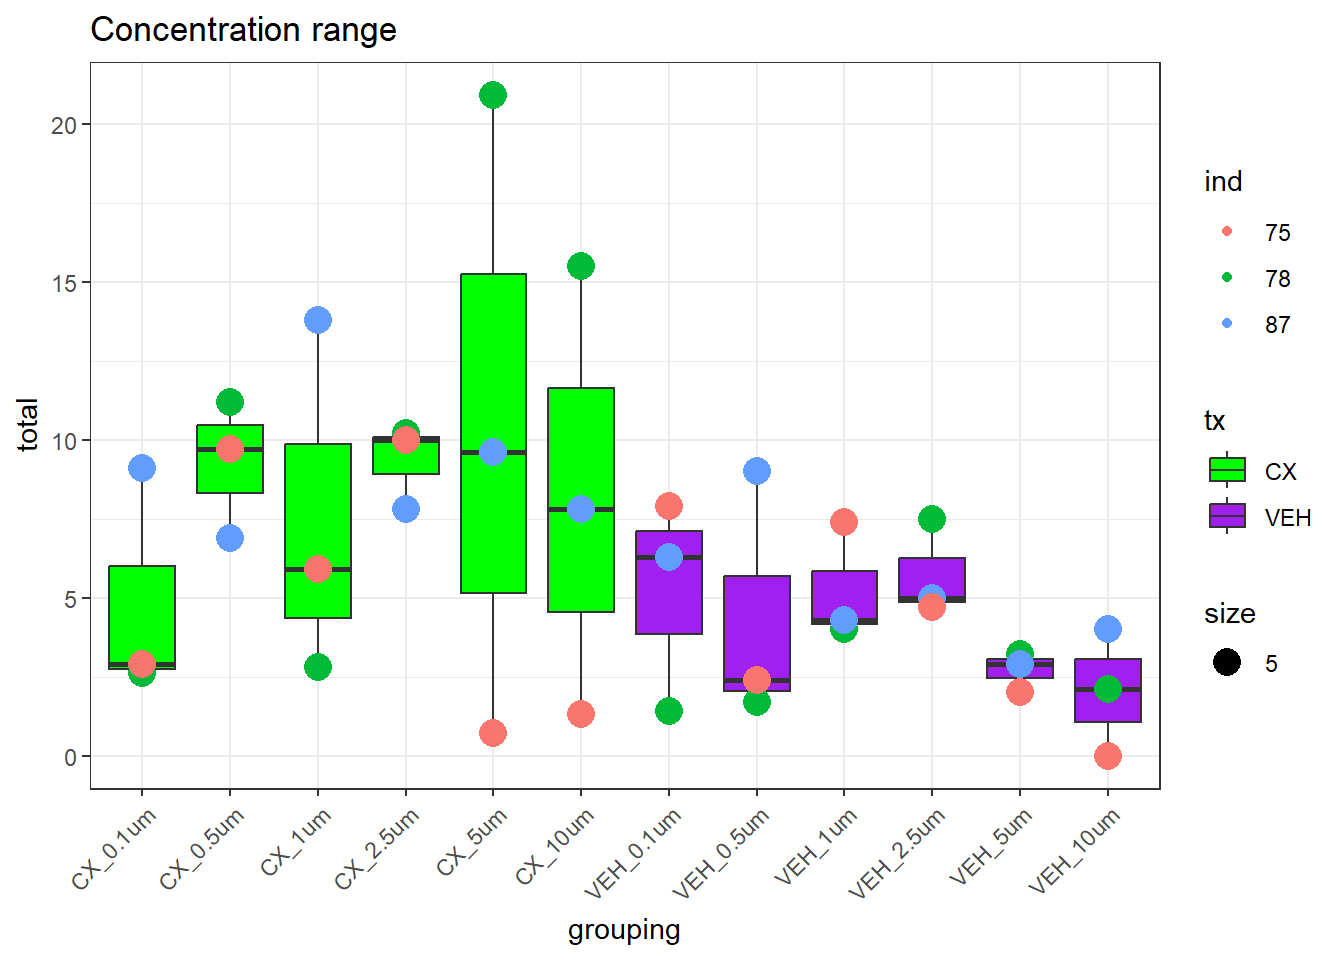
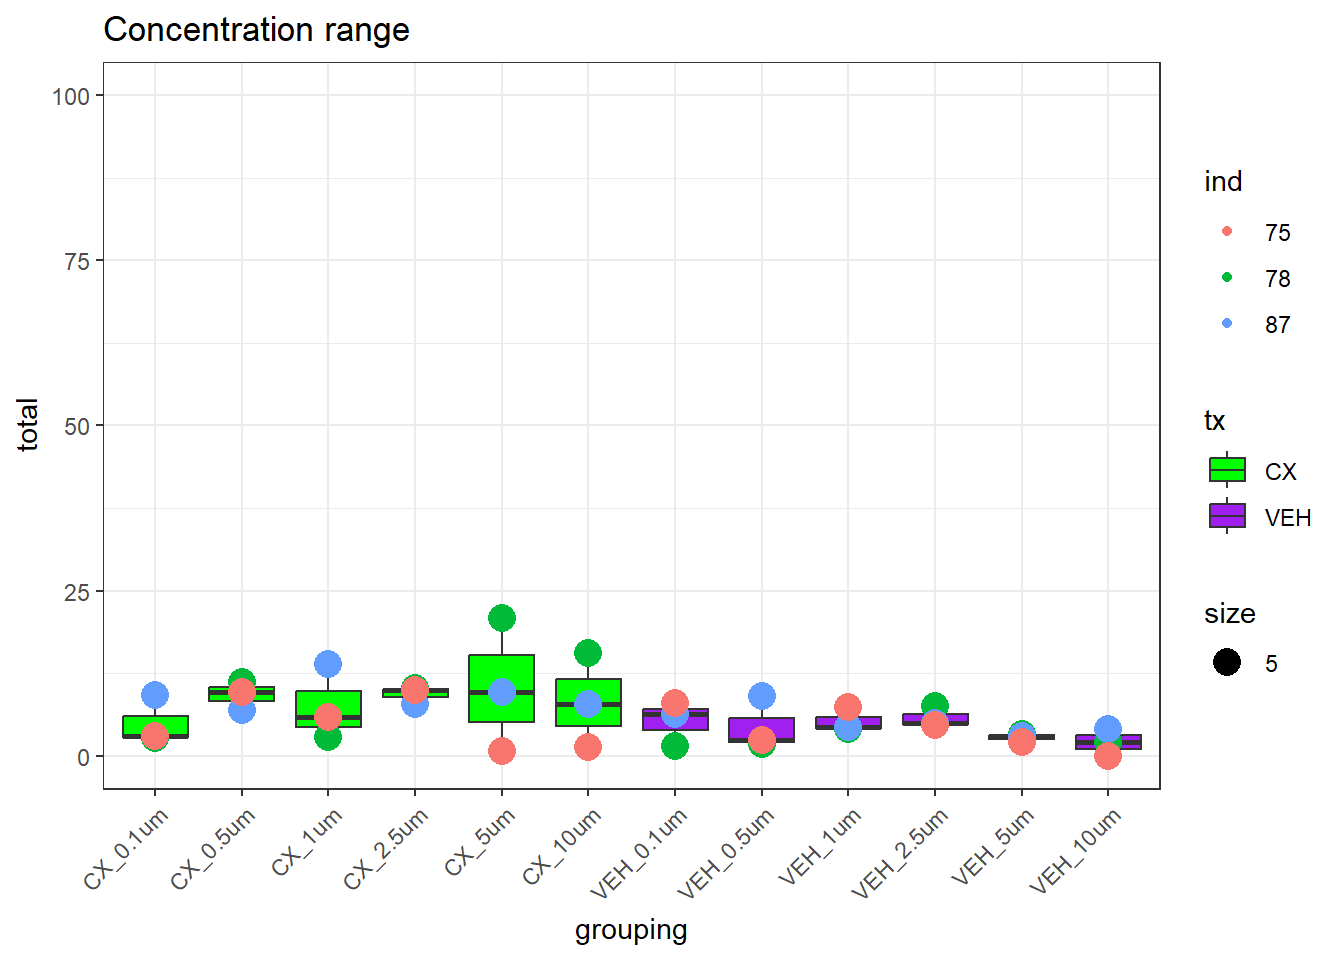
Build site.

diff --git a/docs/Image_processing.html b/docs/Image_processing.html
@@ -513,15 +513,15 @@ project makes it easier to run your code on other machines.</p>
 <div class="panel panel-default">
 <div class="panel-heading">
 <p class="panel-title">
-<a data-toggle="collapse" data-parent="#workflowr-checks" href="#strongRepositoryversionstrongahrefhttpsgithubcomreneeisnowhereCXrevisiontree7be0a49c11764b3f84ebca7397ca58f02f82e759targetblank7be0a49a">
+<a data-toggle="collapse" data-parent="#workflowr-checks" href="#strongRepositoryversionstrongahrefhttpsgithubcomreneeisnowhereCXrevisiontree2af71b55c1465691fba6895d2f9e779d515fe4fdtargetblank2af71b5a">
 <span class="glyphicon glyphicon-ok text-success"
 aria-hidden="true"></span> <strong>Repository version:</strong>
-<a href="https://github.com/reneeisnowhere/CX_revision/tree/7be0a49c11764b3f84ebca7397ca58f02f82e759" target="_blank">7be0a49</a>
+<a href="https://github.com/reneeisnowhere/CX_revision/tree/2af71b55c1465691fba6895d2f9e779d515fe4fd" target="_blank">2af71b5</a>
 </a>
 </p>
 </div>
 <div
[2 lines of base64/hex data omitted]
 class="panel-collapse collapse">
 <div class="panel-body">
 <p>
@@ -531,7 +531,7 @@ reproducibility.
 </p>
 <p>
 The results in this page were generated with repository version
-<a href="https://github.com/reneeisnowhere/CX_revision/tree/7be0a49c11764b3f84ebca7397ca58f02f82e759" target="_blank">7be0a49</a>.
+<a href="https://github.com/reneeisnowhere/CX_revision/tree/2af71b55c1465691fba6895d2f9e779d515fe4fd" target="_blank">2af71b5</a>.
 See the <em>Past versions</em> tab to see a history of the changes made
 to the R Markdown and HTML files.
 </p>
@@ -599,6 +599,40 @@ Message
 </tr>
 </thead>
 <tbody>
+<tr>
+<td>
+Rmd
+</td>
+<td>
+<a href="https://github.com/reneeisnowhere/CX_revision/blob/2af71b55c1465691fba6895d2f9e779d515fe4fd/analysis/Image_processing.Rmd" target="_blank">2af71b5</a>
+</td>
+<td>
+reneeisnowhere
+</td>
+<td>
+2025-11-12
+</td>
+<td>
+update ylim
+</td>
+</tr>
+<tr>
+<td>
+html
+</td>
+<td>
+<a href="https://rawcdn.githack.com/reneeisnowhere/CX_revision/30442a4f1b494fee2b5af71cf87f7c76a3fb1ba5/docs/Image_processing.html" target="_blank">30442a4</a>
+</td>
+<td>
+reneeisnowhere
+</td>
+<td>
+2025-11-12
+</td>
+<td>
+Build site.
+</td>
+</tr>
 <tr>
 <td>
 Rmd
@@ -1378,6 +1412,43 @@ reneeisnowhere
       theme_bw()+
       ggtitle(&quot;2.5 uM at T3, T24, T48&quot;)</code></pre>
 <p><img src="figure/Image_processing.Rmd/combine%20for%20graphs-2.png" width="672" style="display: block; margin: auto;" /></p>
+<p>
+<button type="button" class="btn btn-default btn-xs btn-workflowr btn-workflowr-fig" data-toggle="collapse" data-target="#fig-no-spaces-combine-for-graphs-2">
+Past versions of "combine for graphs-2.png"
+</button>
+</p>
+<div id="fig-no-spaces-combine-for-graphs-2" class="collapse">
+<div class="table-responsive">
+<table class="table table-condensed table-hover">
+<thead>
+<tr>
+<th>
+Version
+</th>
+<th>
+Author
+</th>
+<th>
+Date
+</th>
+</tr>
+</thead>
+<tbody>
+<tr>
+<td>
+<a href="https://github.com/reneeisnowhere/CX_revision/blob/30442a4f1b494fee2b5af71cf87f7c76a3fb1ba5/docs/figure/Image_processing.Rmd/combine for graphs-2.png" target="_blank">30442a4</a>
+</td>
+<td>
+reneeisnowhere
+</td>
+<td>
+2025-11-12
+</td>
+</tr>
+</tbody>
+</table>
+</div>
+</div>
 <pre class="r"><code>combined_if_table %&gt;% 
   dplyr::filter(conc!=&quot;2.5um&quot;) %&gt;% 
   ggplot(., aes(x=grouping,y=total))+
@@ -1475,6 +1546,43 @@ reneeisnowhere
   theme(axis.text.x=element_text(angle=45,hjust=1))+
   scale_fill_manual(values=c(&quot;green&quot;,&quot;purple&quot;,&quot;red3&quot;))</code></pre>
 <p><img src="figure/Image_processing.Rmd/first%20table-2.png" width="672" style="display: block; margin: auto;" /></p>
+<p>
+<button type="button" class="btn btn-default btn-xs btn-workflowr btn-workflowr-fig" data-toggle="collapse" data-target="#fig-no-spaces-first-table-2">
+Past versions of "first table-2.png"
+</button>
+</p>
+<div id="fig-no-spaces-first-table-2" class="collapse">
+<div class="table-responsive">
+<table class="table table-condensed table-hover">
+<thead>
+<tr>
+<th>
+Version
+</th>
+<th>
+Author
+</th>
+<th>
+Date
+</th>
+</tr>
+</thead>
+<tbody>
+<tr>
+<td>
+<a href="https://github.com/reneeisnowhere/CX_revision/blob/30442a4f1b494fee2b5af71cf87f7c76a3fb1ba5/docs/figure/Image_processing.Rmd/first table-2.png" target="_blank">30442a4</a>
+</td>
+<td>
+reneeisnowhere
+</td>
+<td>
+2025-11-12
+</td>
+</tr>
+</tbody>
+</table>
+</div>
+</div>
 <pre class="r"><code># write_csv(combined_if_table, &quot;data/IF_table_combined_T3_T24_T48_gamma.csv&quot;)</code></pre>
 <pre class="r"><code>gamma_count_75&lt;- read_delim(&quot;C:/Users/renee/Other_projects_data/CX_revision_data/Images_Evos/24hour_JAG/75-1/DAPI_counts/Master_summary_75_final.csv&quot;) %&gt;% na.omit()
 
@@ -1632,8 +1740,46 @@ ggplot(., aes(x=grouping,y=total))+
       theme_bw()+
       ggtitle(&quot;Concentration range&quot;)+
   theme(axis.text.x=element_text(angle=45,hjust=1))+
-  scale_fill_manual(values=c(&quot;green&quot;,&quot;purple&quot;,&quot;red3&quot;))</code></pre>
+  scale_fill_manual(values=c(&quot;green&quot;,&quot;purple&quot;,&quot;red3&quot;))+
+  coord_cartesian(ylim=c(0,100))</code></pre>
 <p><img src="figure/Image_processing.Rmd/doserange%20plot-1.png" width="672" style="display: block; margin: auto;" /></p>
+<p>
+<button type="button" class="btn btn-default btn-xs btn-workflowr btn-workflowr-fig" data-toggle="collapse" data-target="#fig-no-spaces-doserange-plot-1">
+Past versions of "doserange plot-1.png"
+</button>
+</p>
+<div id="fig-no-spaces-doserange-plot-1" class="collapse">
+<div class="table-responsive">
+<table class="table table-condensed table-hover">
+<thead>
+<tr>
+<th>
+Version
+</th>
+<th>
+Author
+</th>
+<th>
+Date
+</th>
+</tr>
+</thead>
+<tbody>
+<tr>
+<td>
+<a href="https://github.com/reneeisnowhere/CX_revision/blob/30442a4f1b494fee2b5af71cf87f7c76a3fb1ba5/docs/figure/Image_processing.Rmd/doserange plot-1.png" target="_blank">30442a4</a>
+</td>
+<td>
+reneeisnowhere
+</td>
+<td>
+2025-11-12
+</td>
+</tr>
+</tbody>
+</table>
+</div>
+</div>
 <pre class="r"><code>combined_doserange_supp_plot %&gt;% 
 ggplot(., aes(x=grouping,y=total))+
   geom_boxplot(aes(fill=tx))+
@@ -1641,8 +1787,46 @@ ggplot(., aes(x=grouping,y=total))+
   theme_bw()+
       ggtitle(&quot;Concentration range&quot;)+
   theme(axis.text.x=element_text(angle=45,hjust=1))+
-  scale_fill_manual(values=c(&quot;green&quot;,&quot;purple&quot;,&quot;red3&quot;))</code></pre>
+  scale_fill_manual(values=c(&quot;green&quot;,&quot;purple&quot;,&quot;red3&quot;))+
+  coord_cartesian(ylim=c(0,100))</code></pre>
 <p><img src="figure/Image_processing.Rmd/doserange%20plot-2.png" width="672" style="display: block; margin: auto;" /></p>
+<p>
+<button type="button" class="btn btn-default btn-xs btn-workflowr btn-workflowr-fig" data-toggle="collapse" data-target="#fig-no-spaces-doserange-plot-2">
+Past versions of "doserange plot-2.png"
+</button>
+</p>
+<div id="fig-no-spaces-doserange-plot-2" class="collapse">
+<div class="table-responsive">
+<table class="table table-condensed table-hover">
+<thead>
+<tr>
+<th>
+Version
+</th>
+<th>
+Author
+</th>
+<th>
+Date
+</th>
+</tr>
+</thead>
+<tbody>
+<tr>
+<td>
+<a href="https://github.com/reneeisnowhere/CX_revision/blob/30442a4f1b494fee2b5af71cf87f7c76a3fb1ba5/docs/figure/Image_processing.Rmd/doserange plot-2.png" target="_blank">30442a4</a>
+</td>
+<td>
+reneeisnowhere
+</td>
+<td>
+2025-11-12
+</td>
+</tr>
+</tbody>
+</table>
+</div>
+</div>
 <pre class="r"><code># write_csv(combined_doserange_table, &quot;data/IF_concentration_range_combined.csv&quot;)</code></pre>
 <br>
 <p>
